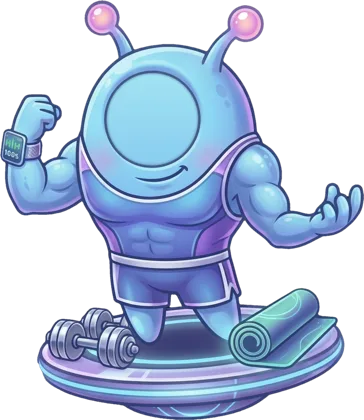
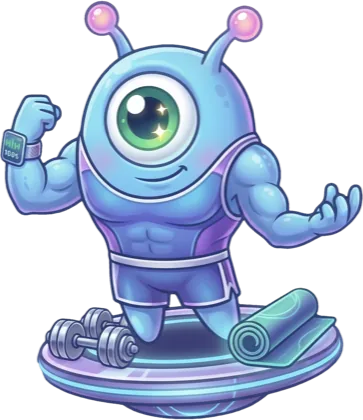
Give BOBO his eye back
The poster still was built from bobo-base.png, which is the film's rigging
base: the eye and the mouth are separate layers that film.js composites on
top so it can blink and lip-sync. On its own that file is a blank face — and
because BOBO is a cyclops, the poster was not showing him with one eye
missing, it was showing him with no eye at all, just a smile.

Rebuilt from bobo-isolated.png, which is the finished character, at the same
framing (1847x2133 is the same 0.866 aspect as the base) and the same recipe:

  sips -Z 420 assets/host/bobo-isolated.png --out /tmp/bobo.png
  cwebp -q 82 -m 6 -alpha_q 100 /tmp/bobo.png -o assets/bobo-poster.webp

363x420 and 28KB, alpha intact, so the page weight is unchanged. The width
attribute goes 364 -> 363 to match what the file actually is.

The film itself was never affected: it composites base + eye + mouth at
runtime and always drew the eye. Only the still was wrong.

diff --git a/index.html b/index.html
@@ -266,7 +266,7 @@
 
             <p class="poster-cap">Yeah, you — the one who keeps saying <span class="hi">tomorrow</span>.</p>
 
-            <img class="poster-bobo" src="/assets/bobo-poster.webp" alt="" width="364" height="420" decoding="async" />
+            <img class="poster-bobo" src="/assets/bobo-poster.webp" alt="" width="363" height="420" decoding="async" />
 
             <div class="poster-barspace" aria-hidden="true"></div>
           </div>

diff --git a/zh/index.html b/zh/index.html
@@ -220,7 +220,7 @@
 
             <p class="poster-cap">喂！說你喔。嘴上老是<span class="hi">明天明天</span>。</p>
 
-            <img class="poster-bobo" src="/assets/bobo-poster.webp" alt="" width="364" height="420" decoding="async" />
+            <img class="poster-bobo" src="/assets/bobo-poster.webp" alt="" width="363" height="420" decoding="async" />
 
             <div class="poster-barspace" aria-hidden="true"></div>
           </div>
